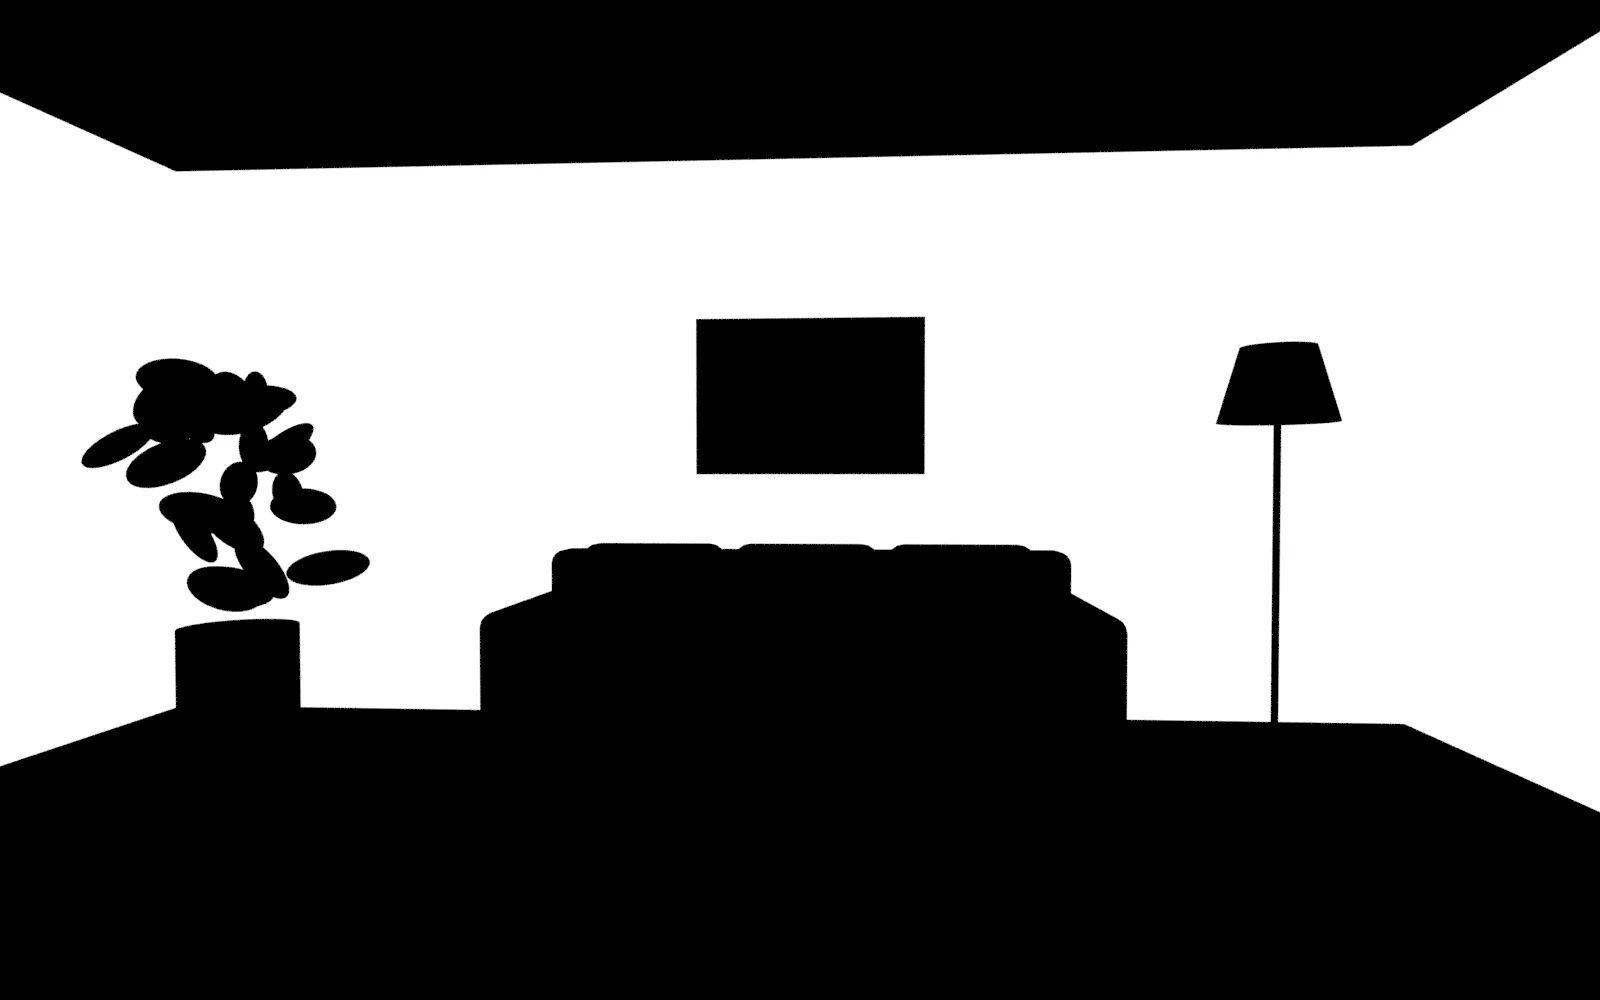
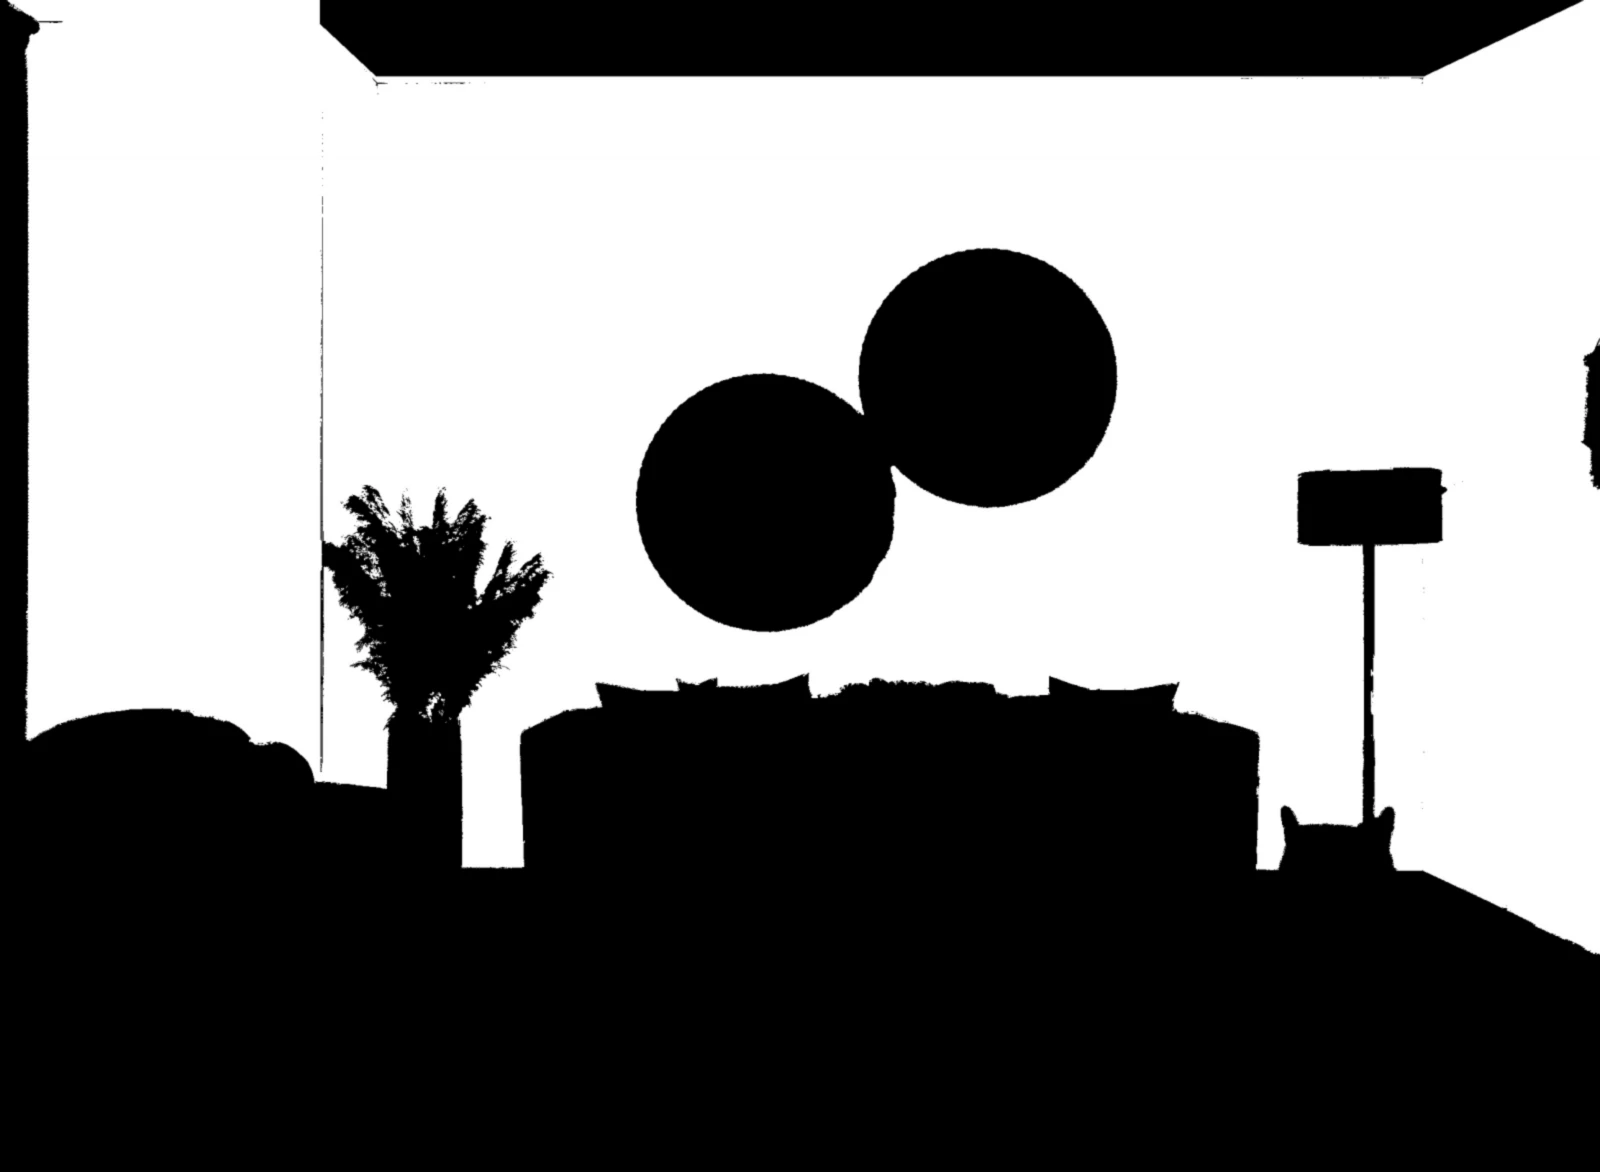
Simulador com foto real de sala e recorte preciso das paredes
Claude-Session: https://claude.ai/code/session_016VB2t6ucsG6g72ucEcCNWS

diff --git a/index.html b/index.html
@@ -152,8 +152,8 @@
 
     <div class="sim rv" id="sim">
       <figure class="sim-quadro" id="simQuadro">
-        <img class="sim-antes" src="assets/simulador/sala.webp" alt="Sala de estar com sofá, planta e luz do sol entrando pela janela, paredes brancas" width="1600" height="1000" decoding="async" loading="lazy">
-        <canvas class="sim-depois" id="simCanvas" width="1600" height="1000" aria-hidden="true"></canvas>
+        <img class="sim-antes" src="assets/simulador/sala.webp" alt="Sala de estar clara com sofá, poltrona, espelhos redondos e luminária, paredes em tom neutro" width="1600" height="1172" decoding="async" loading="lazy">
+        <canvas class="sim-depois" id="simCanvas" width="1600" height="1172" aria-hidden="true"></canvas>
         <span class="sim-rotulo sim-r-antes" aria-hidden="true">Antes</span>
         <span class="sim-rotulo sim-r-depois" aria-hidden="true">Depois</span>
         <span class="sim-linha" aria-hidden="true"><span class="sim-pega"><svg viewBox="0 0 24 24" fill="none" stroke="currentColor" stroke-width="2.2" stroke-linecap="round" stroke-linejoin="round"><path d="M9 6l-5 6 5 6M15 6l5 6-5 6"/></svg></span></span>
@@ -175,7 +175,7 @@
             <span class="t-add"></span><span class="t-sel"></span>
           </button>
         </div>
-        <p class="sim-aviso">Simulação ilustrativa em um ambiente criado digitalmente. As cores exibidas na tela são aproximadas. Confirme a tonalidade na loja.</p>
+        <p class="sim-aviso">Simulação ilustrativa. As cores exibidas na tela são aproximadas. Confirme a tonalidade na loja.</p>
       </div>
     </div>
   </div>

diff --git a/css/estilo.css b/css/estilo.css
@@ -411,7 +411,7 @@ ul{list-style:none}
 /* ---------- simulador: a cor na parede ---------- */
 .simulador{background:var(--navy-deep)}
 .sim{display:grid;gap:20px}
-.sim-quadro{--pos:50%;position:relative;margin:0;aspect-ratio:16/10;border-radius:22px;overflow:hidden;background:#d9d6d0;
+.sim-quadro{--pos:50%;position:relative;margin:0;aspect-ratio:1600/1172;border-radius:22px;overflow:hidden;background:#d9d6d0;
   border:1px solid var(--hair);box-shadow:0 30px 60px -30px rgba(0,0,0,.8);touch-action:pan-y;cursor:ew-resize;user-select:none;-webkit-user-select:none}
 .sim-antes,.sim-depois{position:absolute;inset:0;width:100%;height:100%;object-fit:cover;display:block}
 .sim-depois{clip-path:inset(0 0 0 var(--pos))}
@@ -464,7 +464,6 @@ ul{list-style:none}
 }
 @media (max-width:639px){
   .sim-quadro{aspect-ratio:4/3;border-radius:18px}
-  .sim-antes,.sim-depois{object-position:45% 50%}
   .sim-chip{width:38px;height:38px}
 }
 
